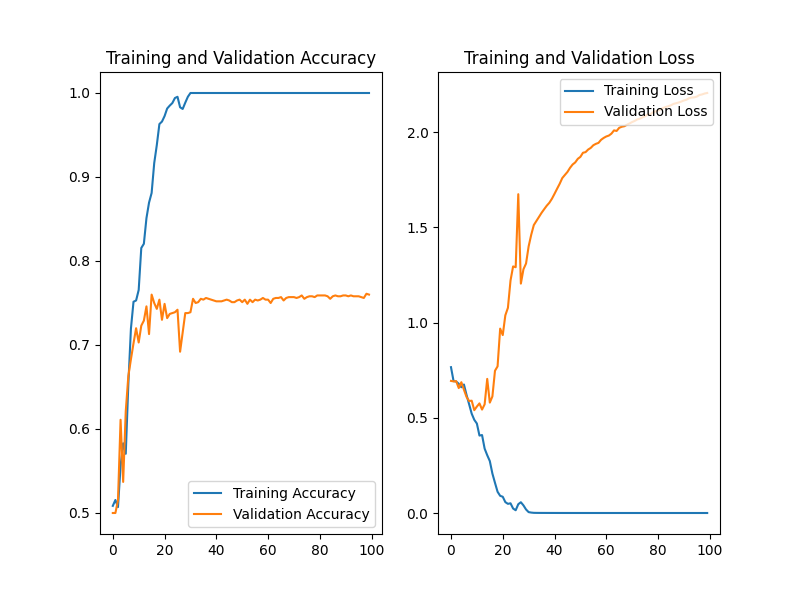
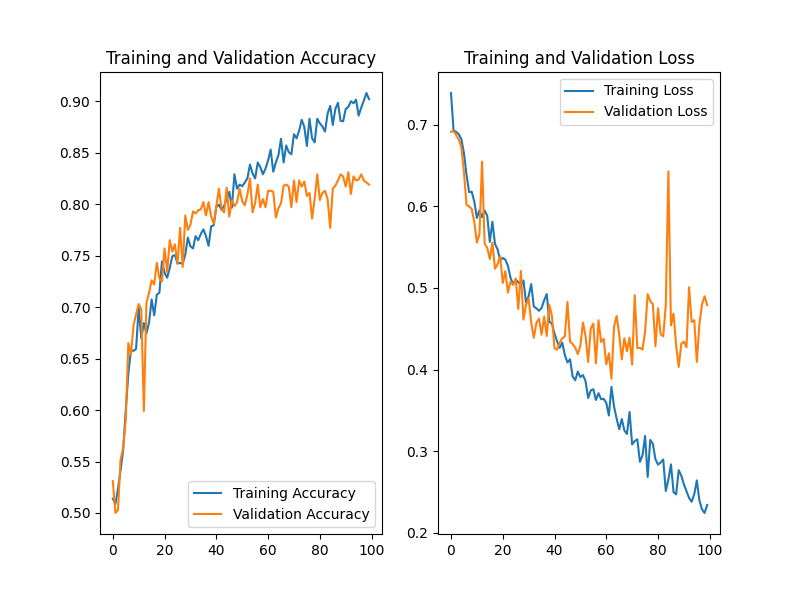
flowers detection with augmentation

diff --git a/tensorflow_tutorials/flowers_aug.py b/tensorflow_tutorials/flowers_aug.py
@@ -1,0 +1,169 @@
+#%% imports
+import os
+import logging
+import glob
+import shutil
+logging.getLogger("tensorflow").setLevel(logging.ERROR)
+os.environ['KMP_AFFINITY'] = 'noverbose'
+os.environ['TF_CPP_MIN_LOG_LEVEL'] = '3'
+
+import tensorflow as tf
+from keras.preprocessing.image import ImageDataGenerator
+import numpy as np
+import matplotlib.pyplot as plt
+# %% data loading
+_URL = "https://storage.googleapis.com/download.tensorflow.org/example_images/flower_photos.tgz"
+
+zip_file = tf.keras.utils.get_file(origin=_URL,
+                                   fname="flower_photos.tgz",
+                                   extract=True)
+base_dir = os.path.join(os.path.dirname(zip_file), 'flower_photos')
+train_dir = os.path.join(base_dir, 'train')
+val_dir = os.path.join(base_dir, 'val')
+# %% creating classes
+classes = ['roses', 'daisy', 'dandelion', 'sunflowers', 'tulips']
+
+for cl in classes:
+    img_path = os.path.join(base_dir, cl)
+    images = glob.glob(img_path + '/*.jpg')
+    print(f"{cl}: {len(images)} Images")
+    train, val = images[:round(len(images)*0.8)], images[round(len(images)*0.8):]
+
+    for t in train:
+        if not os.path.exists(os.path.join(base_dir, 'train', cl)):
+            os.makedirs(os.path.join(base_dir, 'train', cl))
+        shutil.move(t, os.path.join(base_dir, 'train', cl))
+    
+    for v in val:
+        if not os.path.exists(os.path.join(base_dir, 'val', cl)):
+            os.makedirs(os.path.join(base_dir, 'val', cl))
+        shutil.move(v, os.path.join(base_dir, 'val', cl))
+# %%
+train_dir = os.path.join(base_dir, 'train')
+test_dir = os.path.join(base_dir, 'val')
+# %% model parameters
+BATCH_SIZE = 100
+IMG_SHAPE = 150
+#%% data augmentation
+image_gen = ImageDataGenerator(rescale=1./255, horizontal_flip=True)
+train_data_gen = image_gen.flow_from_directory(batch_size=BATCH_SIZE,
+                                               directory=train_dir,
+                                               shuffle=True,
+                                               target_size=(IMG_SHAPE, IMG_SHAPE),
+                                               class_mode='binary')
+def plotImages(images_arr):
+    fig, axes = plt.subplots(1, 5, figsize=(20,20))
+    axes = axes.flatten()
+    for img, ax in zip( images_arr, axes):
+        ax.imshow(img)
+    plt.tight_layout()
+    plt.show()
+
+
+augmented_images = [train_data_gen[0][0][0] for i in range(5)]
+plotImages(augmented_images)
+
+# %%
+image_gen = ImageDataGenerator(rescale=1./255, zoom_range=0.2)
+train_data_gen = image_gen.flow_from_directory(batch_size=BATCH_SIZE,
+                                               directory=train_dir,
+                                               shuffle=True,
+                                               target_size=(IMG_SHAPE, IMG_SHAPE),
+                                               class_mode='binary')
+augmented_images = [train_data_gen[0][0][0] for i in range(5)]
+plotImages(augmented_images)
+
+# %%
+image_gen = ImageDataGenerator(rescale=1./255, rotation_range=45)
+train_data_gen = image_gen.flow_from_directory(batch_size=BATCH_SIZE,
+                                               directory=train_dir,
+                                               shuffle=True,
+                                               target_size=(IMG_SHAPE, IMG_SHAPE),
+                                               class_mode='binary')
+augmented_images = [train_data_gen[0][0][0] for i in range(5)]
+plotImages(augmented_images)
+# %% Data augmentation (all in one)
+image_gen = ImageDataGenerator(rescale=1./255,
+                               horizontal_flip=True,
+                               zoom_range=0.5,
+                               width_shift_range=0.15,
+                               height_shift_range=0.15,
+                               shear_range=0.2,
+                               rotation_range=45,
+                               fill_mode='nearest')
+train_data_gen = image_gen.flow_from_directory(batch_size=BATCH_SIZE, 
+                                               directory=train_dir,
+                                               shuffle=True,
+                                               target_size=(IMG_SHAPE, IMG_SHAPE),
+                                               class_mode='sparse')
+augmented_images = [train_data_gen[0][0][0] for i in range(5)]
+plotImages(augmented_images)
+
+# %%
+image_gen_val = ImageDataGenerator(rescale=1./255)
+val_data_gen = image_gen_val.flow_from_directory(batch_size=BATCH_SIZE,
+                                                 directory=val_dir,
+                                                 shuffle=True,
+                                                 target_size=(IMG_SHAPE, IMG_SHAPE),
+                                                 class_mode='sparse')
+
+# %% MODEL
+model = tf.keras.models.Sequential([
+    tf.keras.layers.Conv2D(filters=16, kernel_size=(3, 3), activation='relu', input_shape=(IMG_SHAPE, IMG_SHAPE, 3)),
+    tf.keras.layers.MaxPooling2D(pool_size=(2, 2)),
+    
+    tf.keras.layers.Conv2D(filters=32, kernel_size=(3, 3), activation='relu'),
+    tf.keras.layers.MaxPooling2D(pool_size=(2, 2)),
+
+    tf.keras.layers.Conv2D(filters=64, kernel_size=(3, 3), activation='relu'),
+    tf.keras.layers.MaxPooling2D(pool_size=(2, 2)),
+
+    tf.keras.layers.Dropout(0.5),
+    tf.keras.layers.Flatten(),
+    tf.keras.layers.Dense(units=512),
+    tf.keras.layers.Dense(5, activation=tf.keras.activations.softmax)
+])
+
+# %% Compile Model
+model.compile(optimizer='adam',
+              loss=tf.keras.losses.SparseCategoricalCrossentropy(from_logits=True),
+              metrics=['accuracy'])
+
+# %% train the model
+total_train = np.sum([len(os.listdir(os.path.join(train_dir, cl))) for cl in classes])
+total_val = np.sum([len(os.listdir(os.path.join(val_dir, cl))) for cl in classes])
+# %%
+EPOCHS = 100
+history = model.fit(
+    train_data_gen,
+    steps_per_epoch=int(np.ceil(total_train / float(BATCH_SIZE))),
+    epochs=EPOCHS,
+    validation_data=val_data_gen,
+    validation_steps=int(np.ceil(total_val / float(BATCH_SIZE)))
+)
+
+# %%
+acc = history.history['accuracy']
+val_acc = history.history['val_accuracy']
+
+loss = history.history['loss']
+val_loss = history.history['val_loss']
+
+epochs_range = range(EPOCHS)
+
+plt.figure(figsize=(8, 6))
+plt.subplot(1, 2, 1)
+plt.plot(epochs_range, acc, label='Training Accuracy')
+plt.plot(epochs_range, val_acc, label='Validation Accuracy')
+plt.legend(loc='lower right')
+plt.title('Training and Validation Accuracy')
+
+plt.subplot(1, 2, 2)
+plt.plot(epochs_range, loss, label='Training Loss')
+plt.plot(epochs_range, val_loss, label='Validation Loss')
+plt.legend(loc='upper right')
+plt.title('Training and Validation Loss')
+plt.savefig('./foo.png')
+plt.show()
+
+# %%

diff --git a/tensorflow_tutorials/dogs_and_cats_aug.py b/tensorflow_tutorials/dogs_and_cats_aug.py
@@ -70,7 +70,23 @@ def plotImages(images_arr):
     plt.show()
 
 plotImages(sample_training_images[:5]) # Plot images 0-4
+#%% data augmentation
+image_gen = ImageDataGenerator(rescale=1./255,
+                               rotation_range=45,
+                               width_shift_range=0.2,
+                               height_shift_range=0.2,
+                               shear_range=0.2,
+                               zoom_range=0.2,
+                               horizontal_flip=True,
+                               fill_mode='nearest')
+train_data_gen = image_gen.flow_from_directory(batch_size=BATCH_SIZE,
+                                               directory=train_dir,
+                                               shuffle=True,
+                                               target_size=(IMG_SHAPE, IMG_SHAPE),
+                                               class_mode='binary')
 
+augmented_images = [train_data_gen[0][0][0] for i in range(5)]
+plotImages(augmented_images)
 # %% Model creation
 # define the model
 model = tf.keras.models.Sequential([
@@ -86,6 +102,7 @@ model = tf.keras.models.Sequential([
     tf.keras.layers.Conv2D(128, (3, 3), activation='relu'),
     tf.keras.layers.MaxPooling2D(2, 2),
 
+    tf.keras.layers.Dropout(0.5),
     tf.keras.layers.Flatten(),
     tf.keras.layers.Dense(512, activation='relu'),
     tf.keras.layers.Dense(2)
